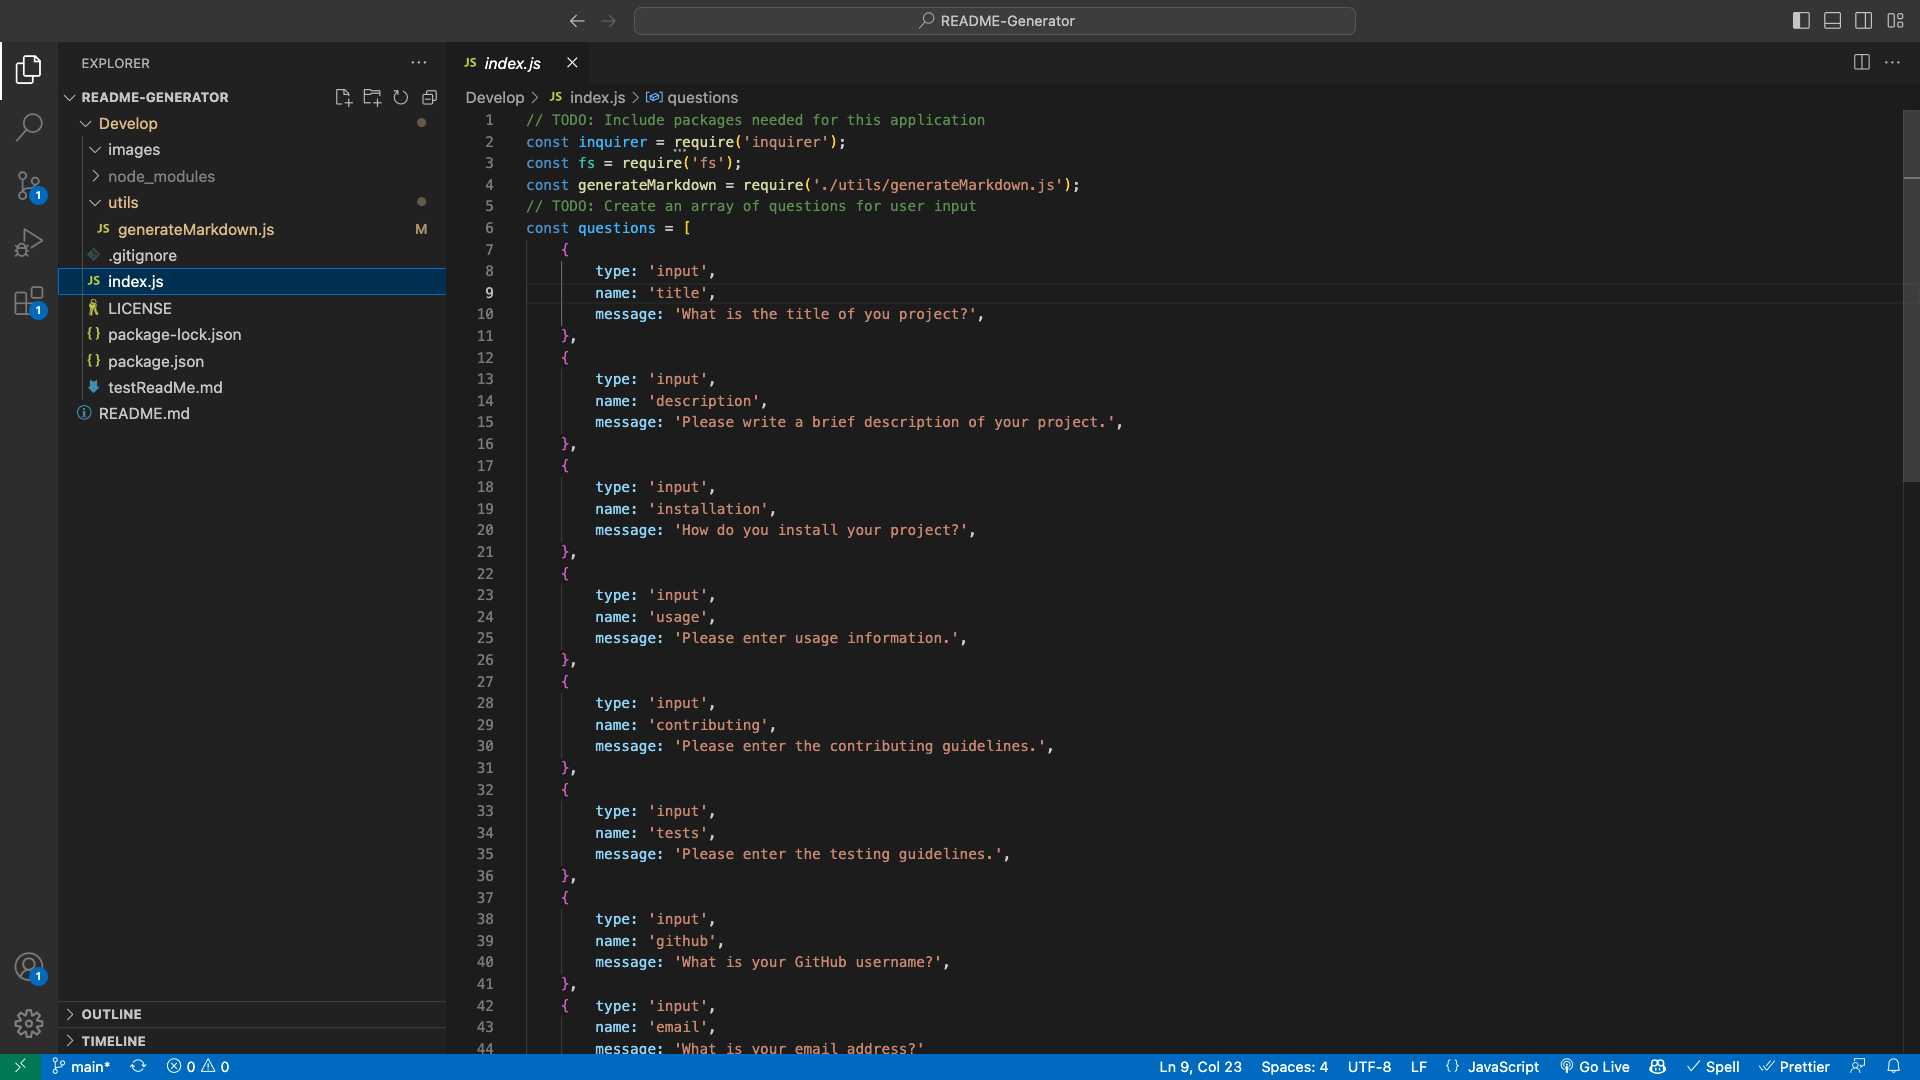
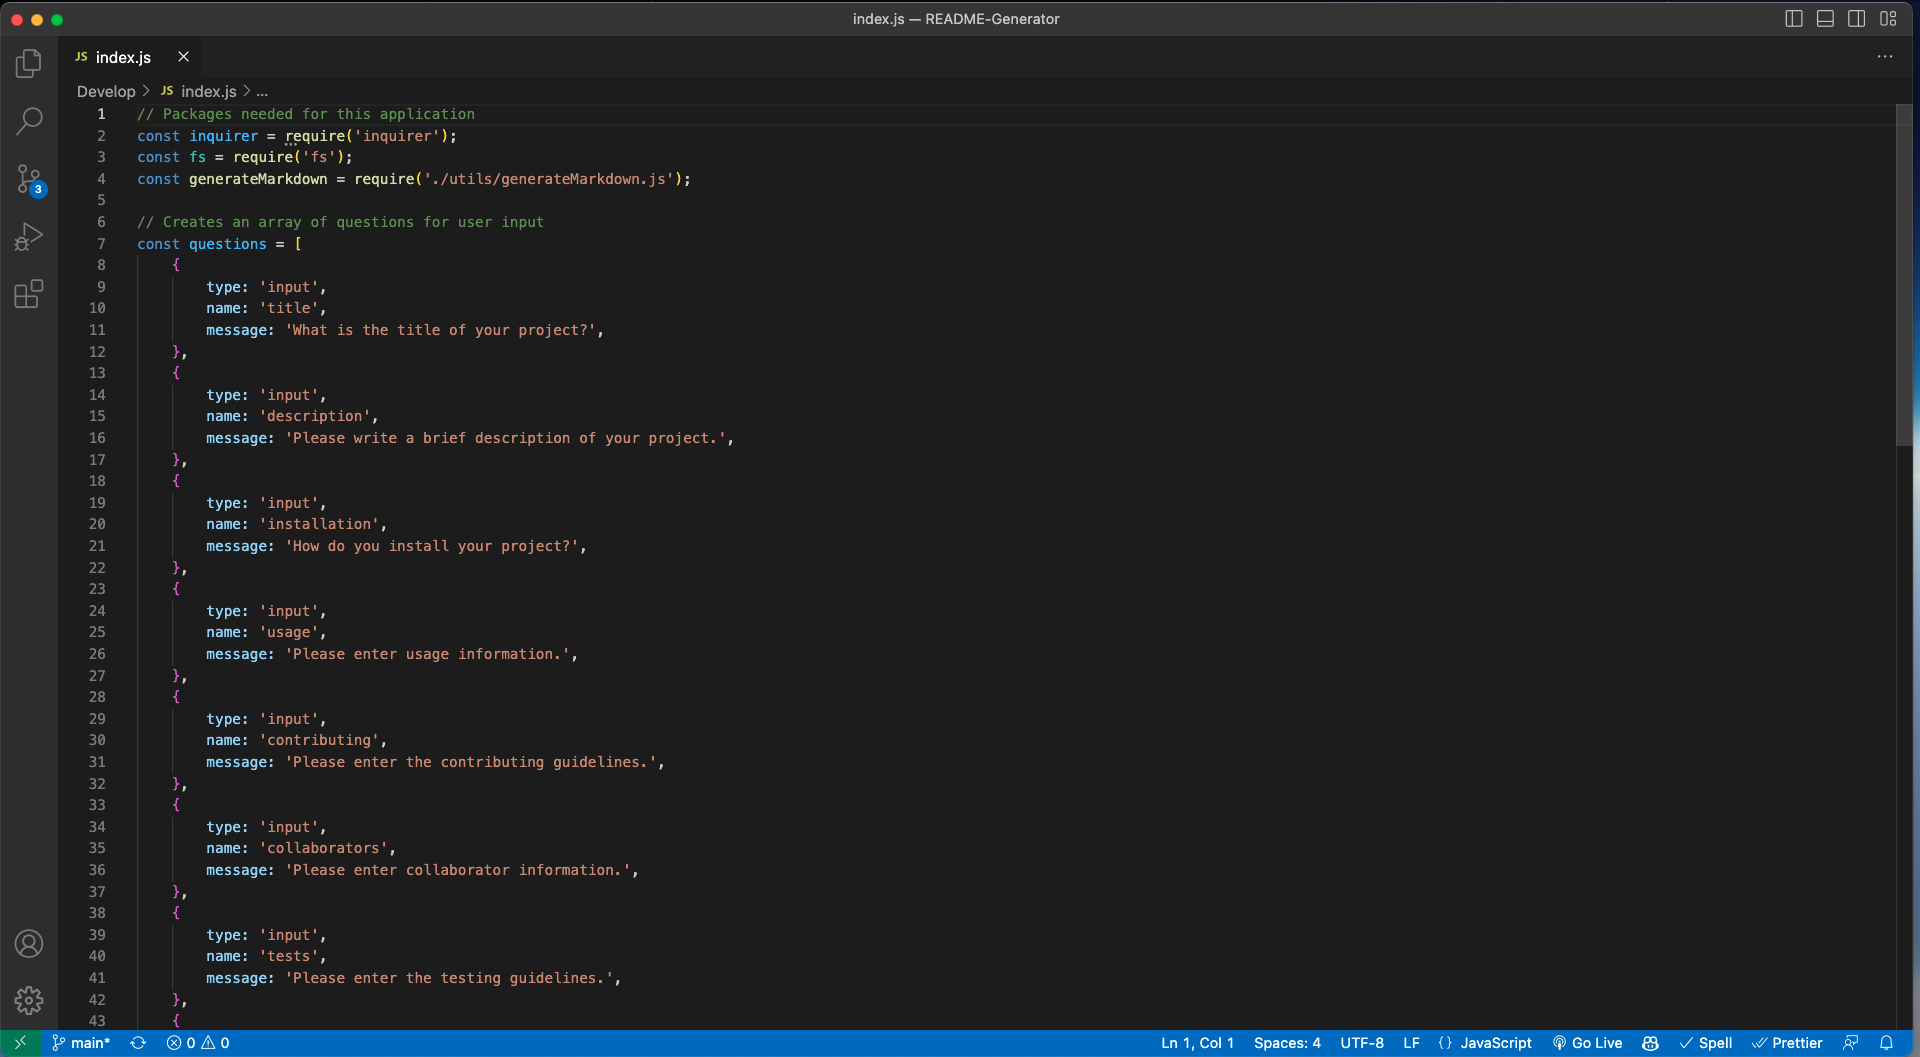
Updated final readme file and screenshots

diff --git a/README.md b/README.md
@@ -13,9 +13,7 @@
 
 
 ## Description
-This README Generator is a Node.js application that helps generate a professional README.md file for your projects. It prompts the user with a series of 
-questions about the project and generates a README.md file based on the user's responses. The generated file includes sections such as Description 
-Installation, Usage, Contributing, Tests, Questions, and License.
+This README Generator is a Node.js application that helps generate a professional README.md file for your projects. It prompts the user with a series of questions about the project and generates a README.md file based on the user's responses. The generated file includes sections such as Description Installation, Usage, Contributing, Tests, Questions, and License.
 
 ## Installation
 To install the README Generator, follow these steps:
@@ -42,6 +40,9 @@ Contributions to the README Generator are welcome. To contribute, please follow 
  3. Make your changes and commit them.
  4. Push your changes to your forked repository.
  5. Submit a pull request detailing your changes.
+
+## Collaborators
+This project was completed with guidance and assistance from UC Berkeley Extension tutor Robby Kurle.
 
 ## Tests
 Tests are currently not available for this project.
